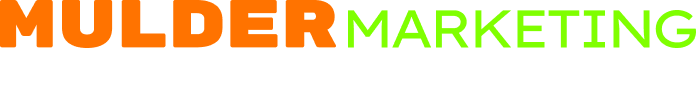
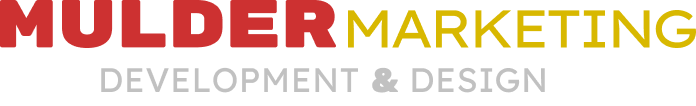
Added images, changed color scheme

Changed region(s): [[0.0, 0.0, 1.0, 0.4528], [0.1207, 0.6226, 0.7845, 0.8774]]

diff --git a/index.html b/index.html
@@ -46,21 +46,10 @@
             </h5>
         </div>
 
+        <p>Dimes Brewhouse</p>
 
         <div>
             <img class="portfolio" src="Miel.jpg" alt="logo"> <br>
-        </div>
-
-        <div>
-            <img class="portfolio" src="barrel.png" alt="logo"><br>
-        </div>
-
-        <div>
-            <img class="portfolio" src="dimond.png" alt="logo"><br>
-        </div>
-
-        <div>
-            <img class="portfolio" src="glb.png" alt="logo"><br>
         </div>
 
         <div>
@@ -68,12 +57,40 @@
         </div>
 
         <div>
-            <img class="portfolio" src="happy holidays.png" alt="logo"><br>
+            <img class="portfolio" src="dimond.png" alt="logo"><br>
+        </div>
+
+        <div>
+            <img class="portfolio" src="Equilibrium.png" alt="logo"><br>
+        </div>
+
+        <div>
+            <img class="portfolio" src="Dimes.png" alt="logo"><br>
         </div>
 
         <div>
             <img class="portfolio" src="diametric.jpg" alt="logo"><br>
         </div>
+
+
+
+        <p>Greater Lansing Brewers</p>
+
+        <div>
+            <img class="portfolio" src="glb.png" alt="logo"><br>
+        </div>
+
+        <div>
+            <img class="portfolio" src="barrel.png" alt="logo"><br>
+        </div>
+
+        <p>Zie Realty</p>
+
+        <div>
+            <img class="portfolio" src="happy holidays.png" alt="logo"><br>
+        </div>
+
+       
 
 
         <div class="partial">

diff --git a/styles.css b/styles.css
@@ -6,7 +6,7 @@ body {
 
   p {
     font-family: "Lexend Deca", sans-serif;
-    color:  rgb(255, 115, 0);
+    color:  rgb(216, 184, 0);
 
   }
   a {
@@ -45,7 +45,7 @@ h1 {
 
     
     h2{
-        color: rgb(255, 115, 0);
+        color:rgb(216, 184, 0);
         font-family: "Lexend Exa", sans-serif;
         text-align: center;
         text-transform: uppercase;
@@ -69,7 +69,7 @@ h1 {
 
     
     h4{
-            color: rgb(255, 115, 0);
+            color: rgb(216, 184, 0);
             font-family: "Lexend Deca", sans-serif;
             line-height: 5px;
           
@@ -90,7 +90,7 @@ h1 {
     font-family: "Lexend Deca", sans-serif;
     display: inline-block;
             width: 300px;
-            background-color:  rgb(255, 115, 0);
+            background-color:rgb(216, 184, 0);
             padding: 10px;
             border-radius: 4px;
             font-weight: 900;
@@ -266,7 +266,7 @@ color: #f3e77c;
 
 .box{
    
-    background-color: rgba(255,115,0,1);
+    background-color: rgb(216, 184, 0);
     padding: 1px;
     border-radius: 4px;
     font-weight: 900;
